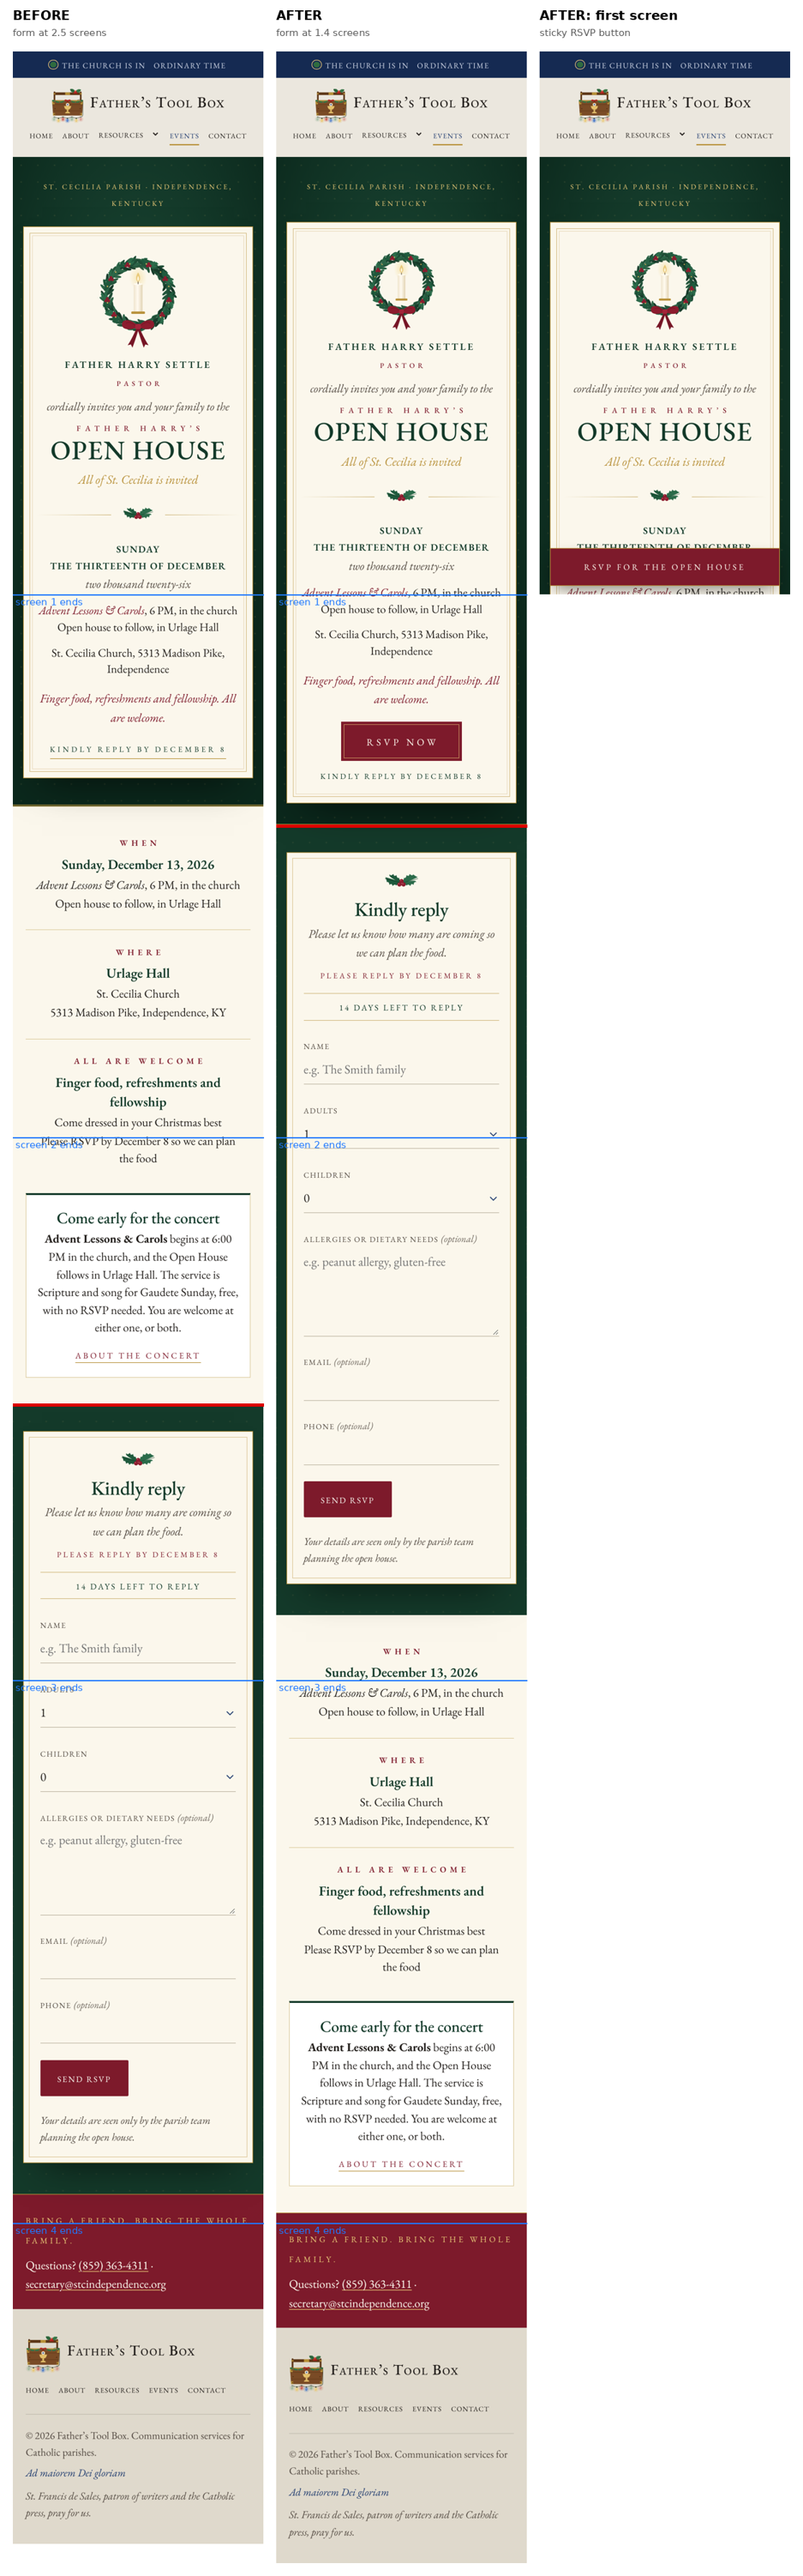
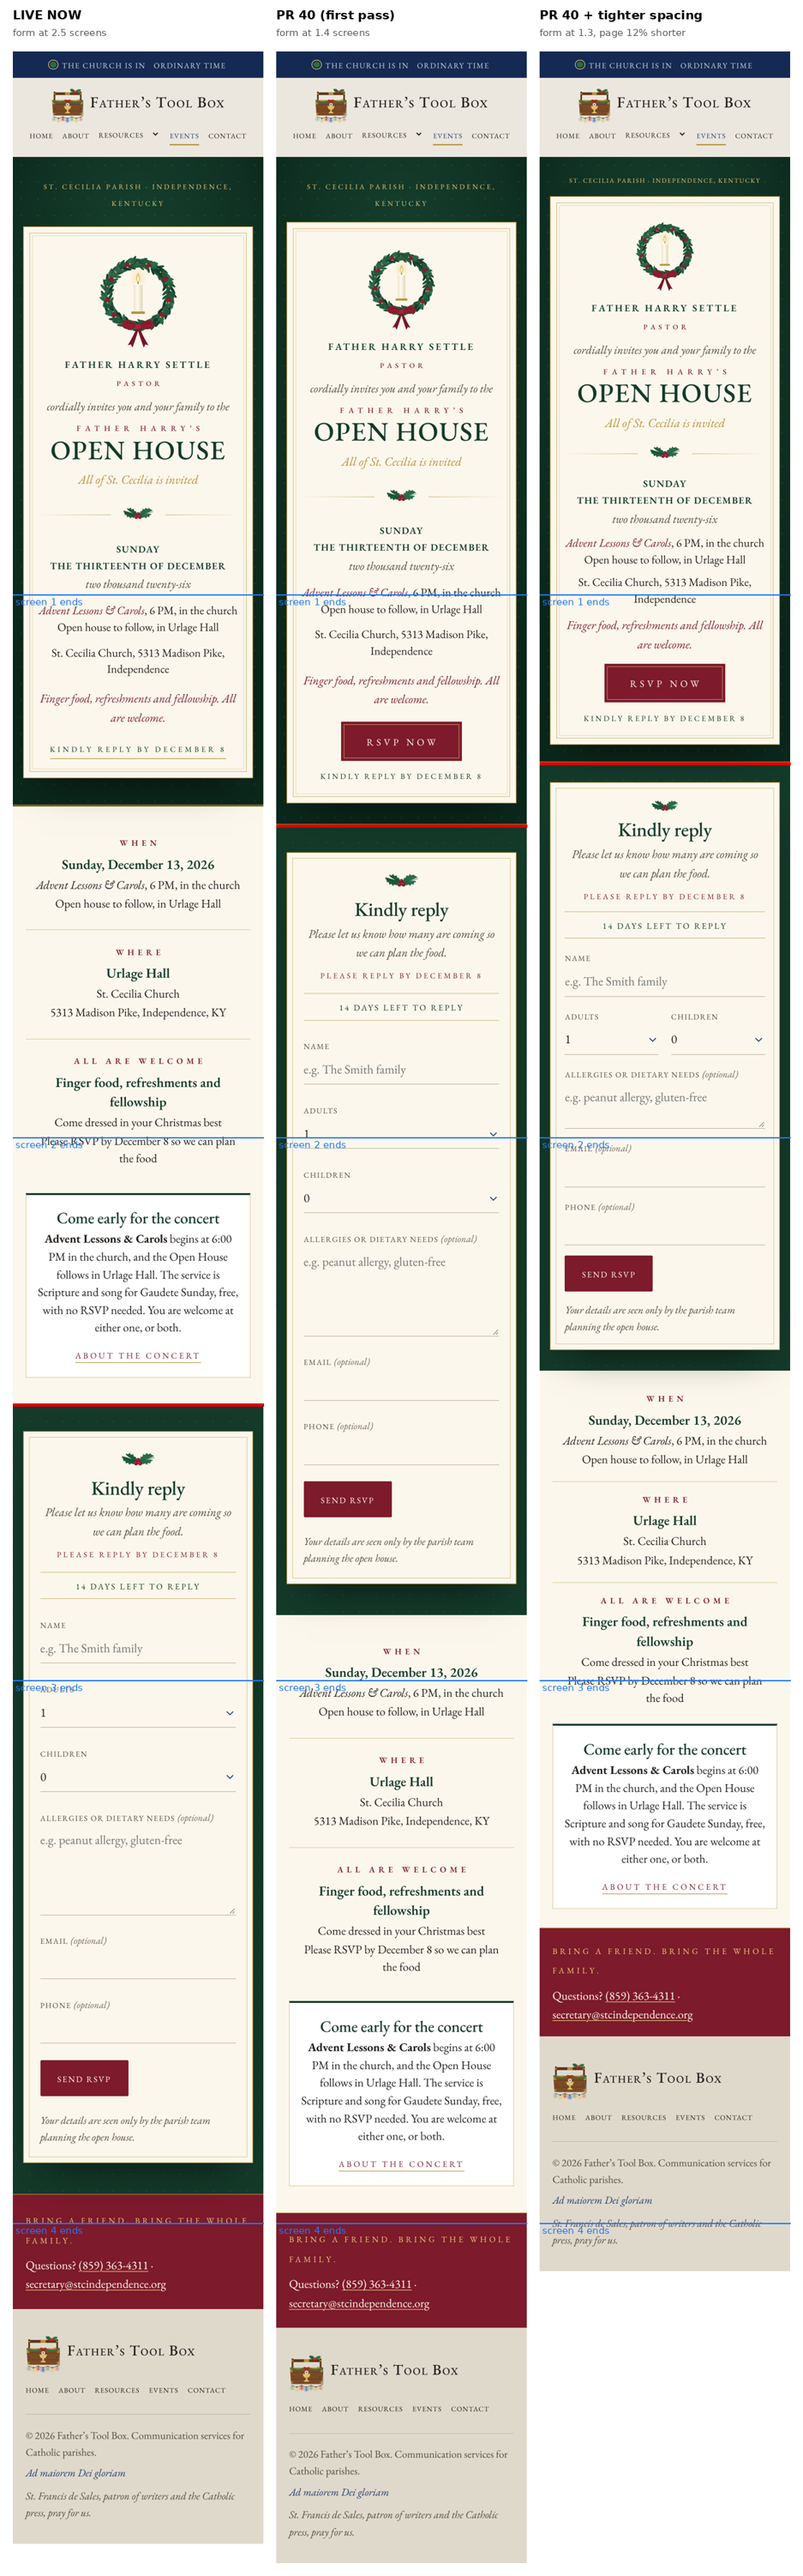
Open house page: tighten vertical spacing
Smaller section padding, form gaps and dietary box; adults and
children side by side on phones; one-line kicker on phones.

Claude-Session: https://claude.ai/code/session_015jS7JHSDgWoMGEgwK2GM1V

Changed region(s): [[0.6499, 0.0619, 0.9904, 0.8981], [0.6809, 0.0, 0.8356, 0.031], [0.3714, 0.0, 0.4023, 0.031]]

diff --git a/public/parishes/st-cecilia/events/parish-open-house/index.html b/public/parishes/st-cecilia/events/parish-open-house/index.html
@@ -103,6 +103,25 @@ j=d.createElement(s),dl=l!='dataLayer'?'&l='+l:'';j.async=true;j.src=
 .xm-sticky.off{opacity:0;transform:translateY(130%);pointer-events:none}
 .xm-hero{padding-bottom:2rem}.xm-wreath{width:130px}.xm-kicker{margin-bottom:1.1rem}}
 @media print{.xm-sticky{display:none}}
+/* Tighter vertical rhythm (less empty space, less scrolling). */
+.xm-hero{padding:clamp(1.4rem,4vw,2.6rem) 0 clamp(1.8rem,4.5vw,3rem)}
+.xm-kicker{margin-bottom:1.1rem}
+.xm-rule{margin:.9rem auto}
+.xm-line{margin-top:.6rem}.xm-cheer{margin-top:.8rem}.xm-cta{margin-top:1rem}
+.xm-rsvp{padding:clamp(1.8rem,4.5vw,3rem) 0 clamp(2rem,5vw,3.2rem)}
+.xm-rsvp form{gap:1.15rem 1.6rem;padding:clamp(1.4rem,3.5vw,2.4rem)}
+.xm-rsvp textarea{min-height:3.8rem}
+.xm-rsvp .rsvp-head svg{width:52px;margin-bottom:.2rem}
+.xm-rsvp .rsvp-tally{margin-top:.7rem}
+.xm-details .wrap{padding-block:clamp(1.8rem,4.5vw,3rem)}
+.xm-concert{margin-top:clamp(1.4rem,3.5vw,2.2rem)}
+.xm-foot .wrap{padding-block:1.2rem}
+@media (max-width:720px){
+.xm-rsvp form{grid-template-columns:1fr 1fr;gap:1rem 1.2rem}
+.xm-rsvp form>.field:not(.full):not(:has(#rsvp-adults)):not(:has(#rsvp-children)){grid-column:1/-1}
+.xm-cols{gap:1rem}.xm-col+.xm-col{padding-top:1rem}
+.xm-hero{padding-bottom:1.6rem}.xm-wreath{width:112px}.xm-kicker{margin-bottom:.9rem}}
+@media (max-width:560px){.xm-kicker{font-size:.92rem;letter-spacing:.1em}}
 </style>
 </head>
 <body>
